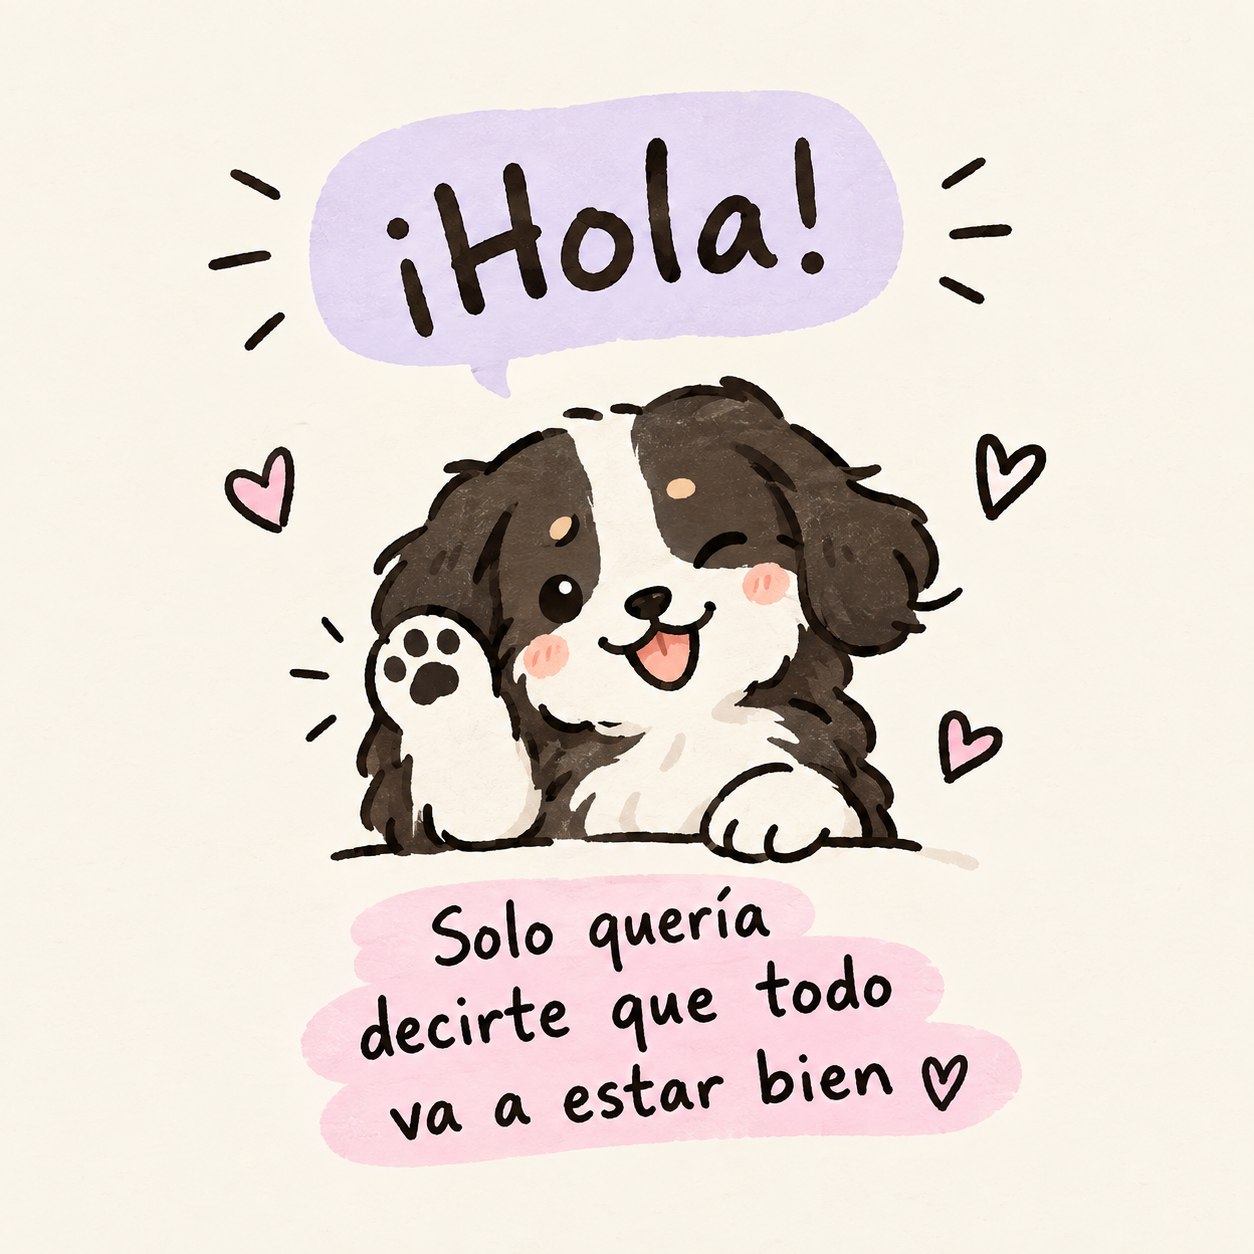
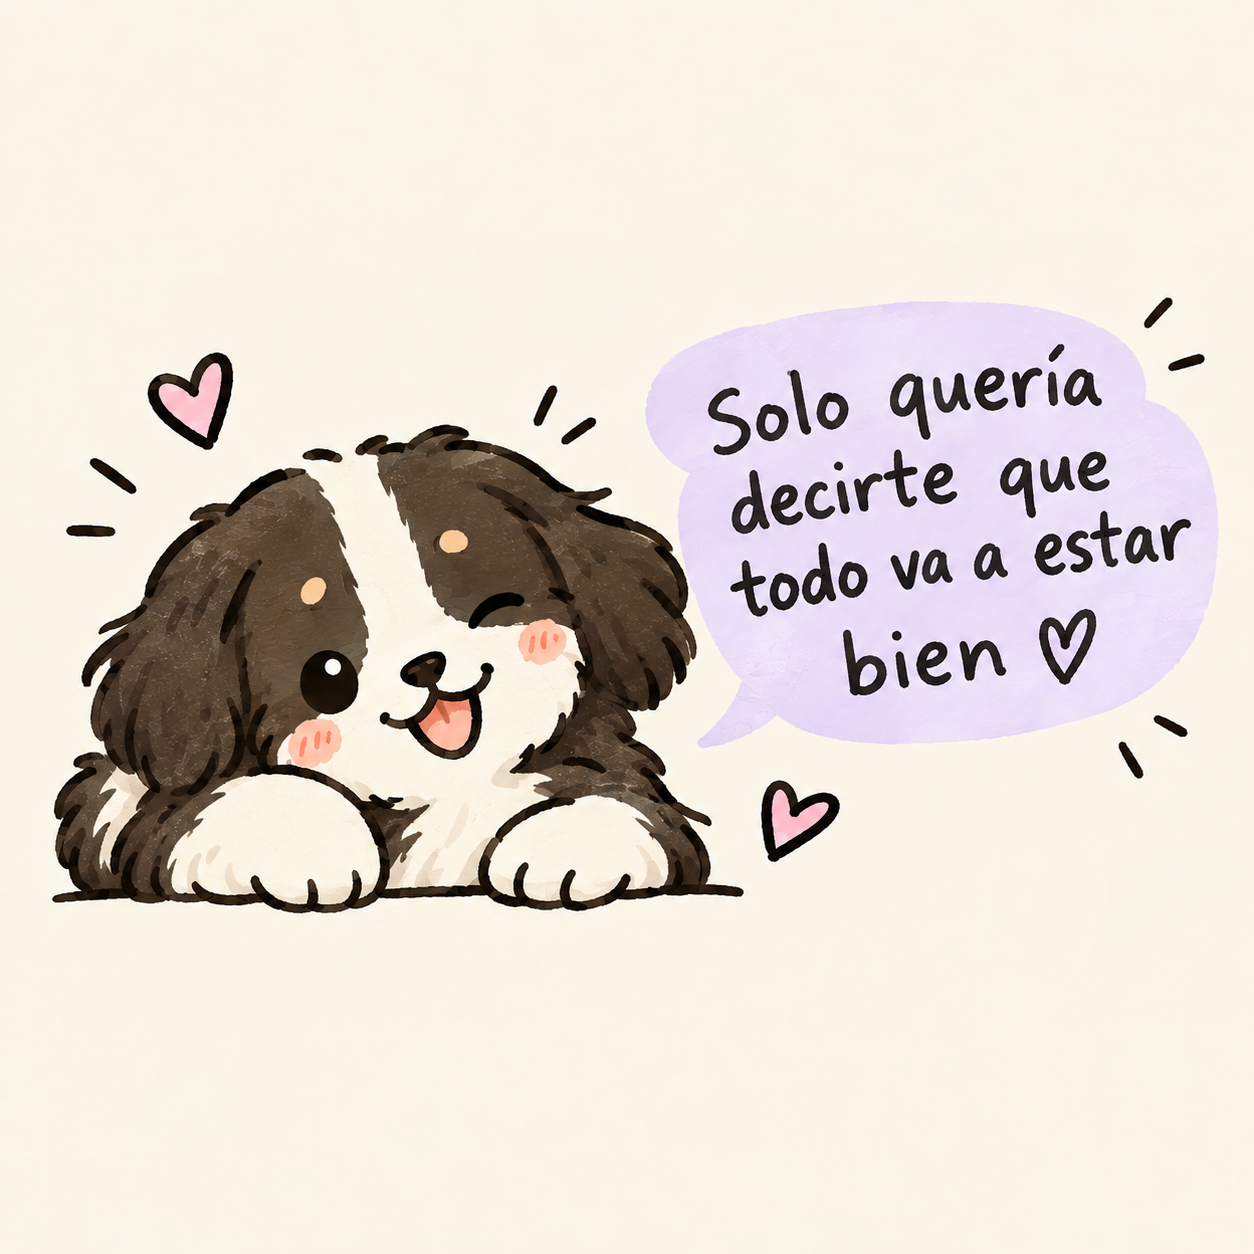
style(home): swap the greeting illustration and crop it to a wide band
The new drawing sits in a wide strip, so it is cropped to 2:1 with object-cover and shown wider to keep the bubble text readable.

diff --git a/app/page.tsx b/app/page.tsx
@@ -52,12 +52,14 @@ export default async function HomePage() {
           <h1>
             <Image
               src="/home-greeting.png"
-              alt="¡Hola! Un perrito saluda con la pata: solo quería decirte que todo va a estar bien"
+              alt="Un perrito sonríe y dice: solo quería decirte que todo va a estar bien"
               width={1254}
               height={1254}
-              sizes="(min-width: 1024px) 13rem, 11rem"
+              sizes="(min-width: 1024px) 24rem, 18rem"
               loading="eager"
-              className="border-lilac-300 w-44 rounded-3xl border-2 lg:w-52"
+              // The drawing sits in a wide band with empty paper above and below;
+              // cropping to 2:1 keeps the bubble text readable at this width.
+              className="border-lilac-300 aspect-[2/1] h-auto w-72 rounded-3xl border-2 object-cover lg:w-96"
             />
           </h1>
           <p className="border-butter-300 bg-butter-100 text-butter-800 -rotate-2 rounded-lg border-2 px-3 py-1 shadow-sm">
